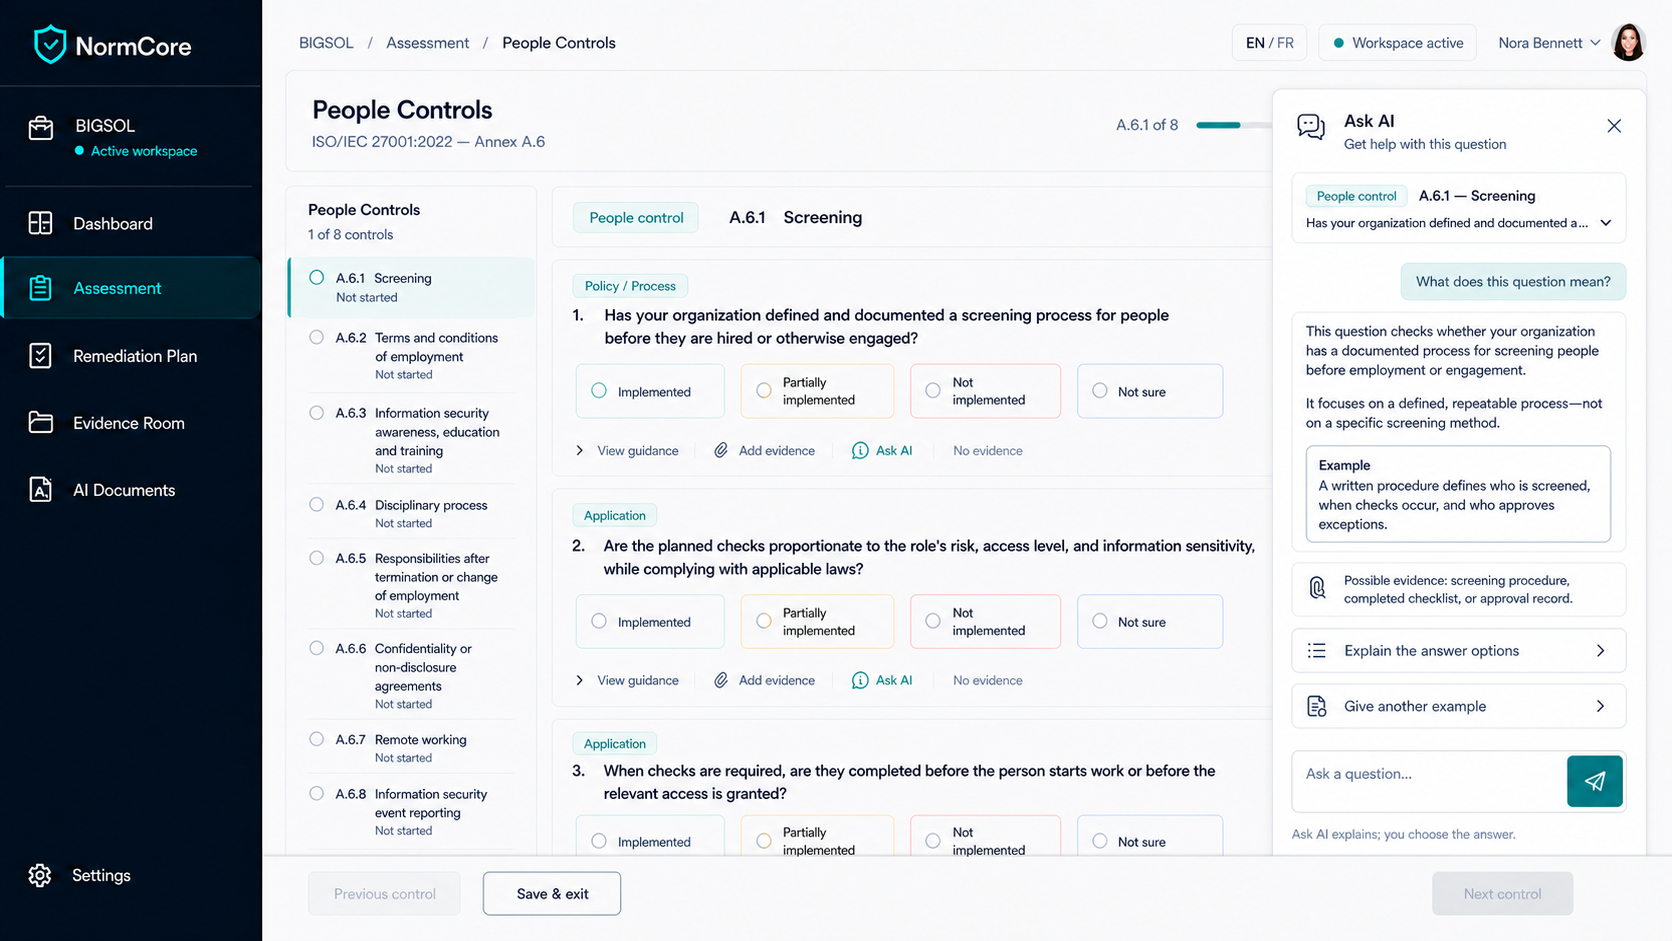
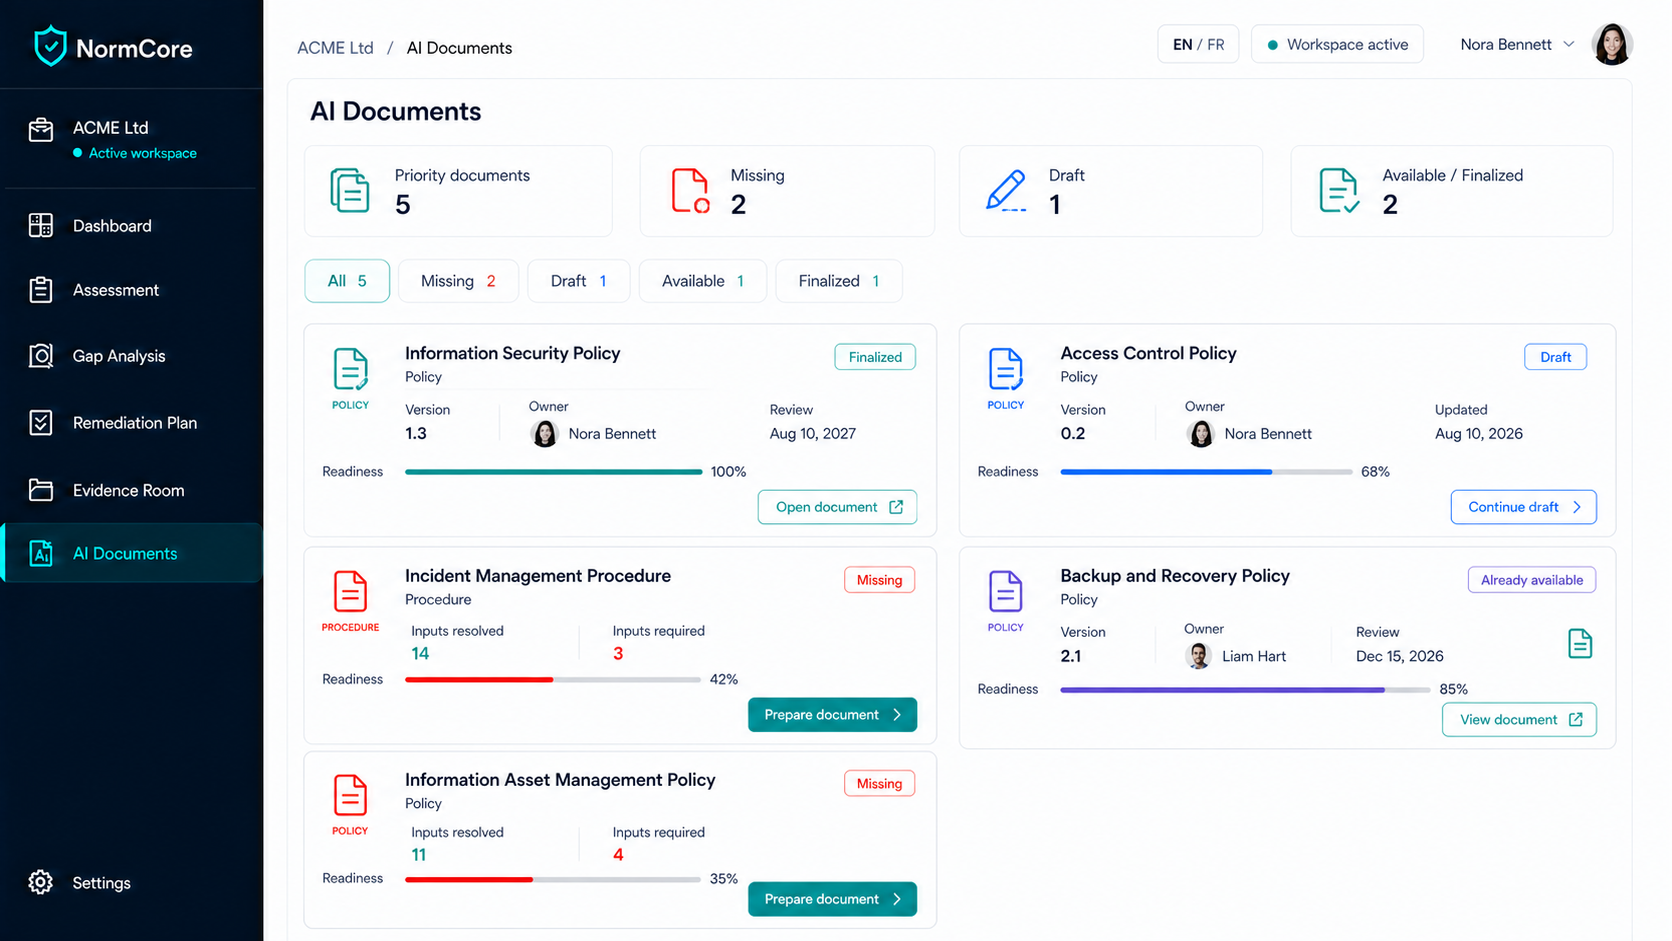
docs: correct screenshots and add missing workflow images

diff --git a/README.md b/README.md
@@ -135,12 +135,20 @@ Remember to apply your Supabase database migrations to your production instance 
      <img src="docs/assets/assessment-questionnaire.png" alt="Assessment Controls" width="90%">
    </p>
 3. **Gap Analysis**: The system calculates compliance gaps automatically.
+   <br>
+   <p align="center">
+     <img src="docs/assets/gap-analysis.png" alt="Gap Analysis" width="90%">
+   </p>
 4. **Remediation**: Users plan and assign tasks to fix gaps.
    <br>
    <p align="center">
      <img src="docs/assets/remediation-plan.png" alt="Remediation Plan" width="90%">
    </p>
 5. **Evidence Room**: Users upload proofs of compliance.
+   <br>
+   <p align="center">
+     <img src="docs/assets/evidence-room.png" alt="Evidence Room" width="90%">
+   </p>
 6. **AI Documents**: Users generate compliant security policies based on their unique context.
    <br>
    <p align="center">
